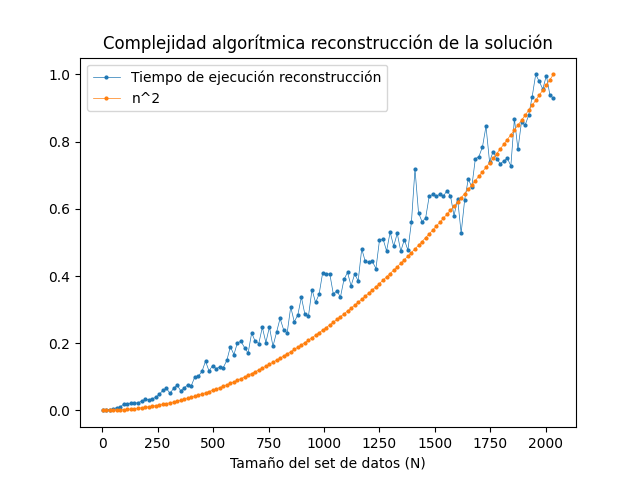
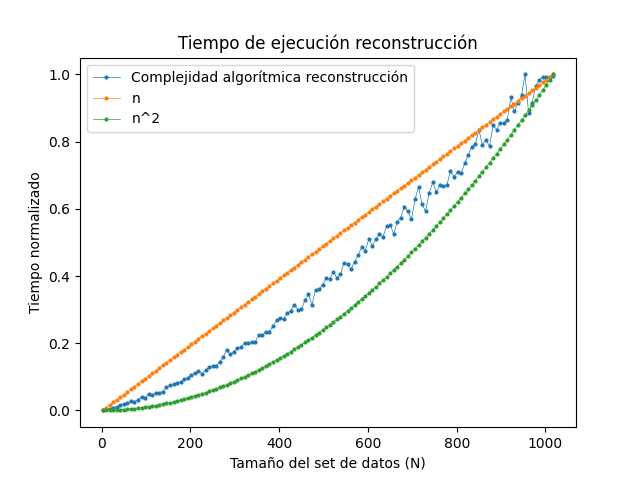
Update graficos complejidad

diff --git a/tp2/complejidad_algoritmica.py b/tp2/complejidad_algoritmica.py
@@ -1,3 +1,4 @@
+import math
 import random
 import time
 import matplotlib.pyplot as plt
@@ -6,13 +7,16 @@ from casos.generar_casos import generar_caso
 from tp2.algoritmo_resolucion import pd_entrenamientos, pd_reconstruccion
 
 
-def generar_casos(tamanios):
-    casos = [generar_caso(tamanio) for tamanio in tamanios]
-    ei_si = []
-    for caso in casos:
-        ei_si.append((list(map(lambda x: x[0], caso)), list(map(lambda x: x[1], caso))))
+def generar_experimentos(tamanios, cantidad_experimentos):
+    experimentos = []
+    for tamanio in tamanios:
+        casos = [generar_caso(tamanio) for _ in range(cantidad_experimentos)]
+        ei_si = []
+        for caso in casos:
+            ei_si.append((list(map(lambda x: x[0], caso)), list(map(lambda x: x[1], caso))))
+        experimentos.append(ei_si)
 
-    return ei_si
+    return experimentos
 
 
 def normalizar(data):
@@ -22,11 +26,12 @@ def normalizar(data):
     return normalized_data
 
 
-def generar_grafico(tamanios, t, n_al_cuadrado, titulo, label, nombre_archivo):
+def generar_grafico(tamanios, curves, labels, titulo, nombre_archivo):
     plt.figure()
-    plt.plot(tamanios, t, marker='o', label=label, linewidth=0.5, markersize=2)
-    plt.plot(tamanios, n_al_cuadrado, marker='o', label='n^2', linewidth=0.5, markersize=2)
+    for curve, label in zip(curves, labels):
+        plt.plot(tamanios, curve, marker='o', label=label, linewidth=0.5, markersize=2)
     plt.xlabel('Tamaño del set de datos (N)')
+    plt.ylabel('Tiempo normalizado')
     plt.title(titulo)
     plt.legend()
     plt.savefig(nombre_archivo)
@@ -34,36 +39,56 @@ def generar_grafico(tamanios, t, n_al_cuadrado, titulo, label, nombre_archivo):
 
 def main():
     random.seed(42)
-
-    tamanios = range(2, 2 ** 11, 16)
-    #tamanios = range(2, 2 ** 9, 16)
-
-    casos = generar_casos(tamanios)
+    tamanios = range(2, 2 ** 10, 8)
+    experimentos = generar_experimentos(tamanios, 10)
     t_total = []
     t_entrenamientos = []
     t_reconstruccion = []
     n_al_cuadrado = normalizar([n ** 2 for n in tamanios])
-    for caso in casos:
-        start = time.time()
-        soluciones = pd_entrenamientos(caso[1], caso[0])
-        t_entrenamientos.append(time.time() - start)
+    n_lineal = normalizar([n for n in tamanios])
 
-        start_reconstruccion = time.time()
-        pd_reconstruccion(soluciones)
-        t_reconstruccion.append(time.time() - start_reconstruccion)
+    for experimento in experimentos:
+        _t_total = 0
+        _t_entrenamientos = 0
+        _t_reconstruccion = 0
+        for caso in experimento:
+            start = time.time()
+            soluciones = pd_entrenamientos(caso[1], caso[0])
+            _t_entrenamientos += time.time() - start
+            start_reconstruccion = time.time()
+            pd_reconstruccion(soluciones)
+            end = time.time()
+            _t_reconstruccion += end - start_reconstruccion
+            _t_total += end - start
 
-        t_total.append(time.time() - start)
+        t_total.append(_t_total / len(experimento))
+        t_entrenamientos.append(_t_entrenamientos / len(experimento))
+        t_reconstruccion.append(_t_reconstruccion / len(experimento))
 
     t_total = normalizar(t_total)
     t_entrenamientos = normalizar(t_entrenamientos)
     t_reconstruccion = normalizar(t_reconstruccion)
 
-    generar_grafico(tamanios, t_total, n_al_cuadrado, 'Complejidad algorítmica total', 'Tiempo de ejecución total',
-                    'graficos/complejidad_total.png')
-    generar_grafico(tamanios, t_reconstruccion, n_al_cuadrado, 'Complejidad algorítmica reconstrucción de la solución',
-                    'Tiempo de ejecución reconstrucción', 'graficos/complejidad_reconstruccion.png')
-    generar_grafico(tamanios, t_entrenamientos, n_al_cuadrado, 'Complejidad algorítmica solución',
-                    'Tiempo de ejecución entrenamientos', 'graficos/complejidad_entrenamientos.png')
+    generar_grafico(
+        tamanios,
+        [t_total, n_al_cuadrado],
+        ['Complejidad algorítmica total', 'n^2'],
+        'Tiempo de ejecución total',
+        'graficos/complejidad_total.png'
+    )
+    generar_grafico(
+        tamanios,
+        [t_entrenamientos, n_al_cuadrado],
+        ['Complejidad algorítmica entrenamientos', 'n^2'],
+        'Tiempo de ejecución entrenamientos',
+        'graficos/complejidad_entrenamientos.png'
+    )
+    generar_grafico(
+        tamanios, [t_reconstruccion, n_lineal, n_al_cuadrado],
+        ['Complejidad algorítmica reconstrucción', 'n', 'n^2'],
+        'Tiempo de ejecución reconstrucción',
+        'graficos/complejidad_reconstruccion.png'
+    )
 
 
 if __name__ == '__main__':
